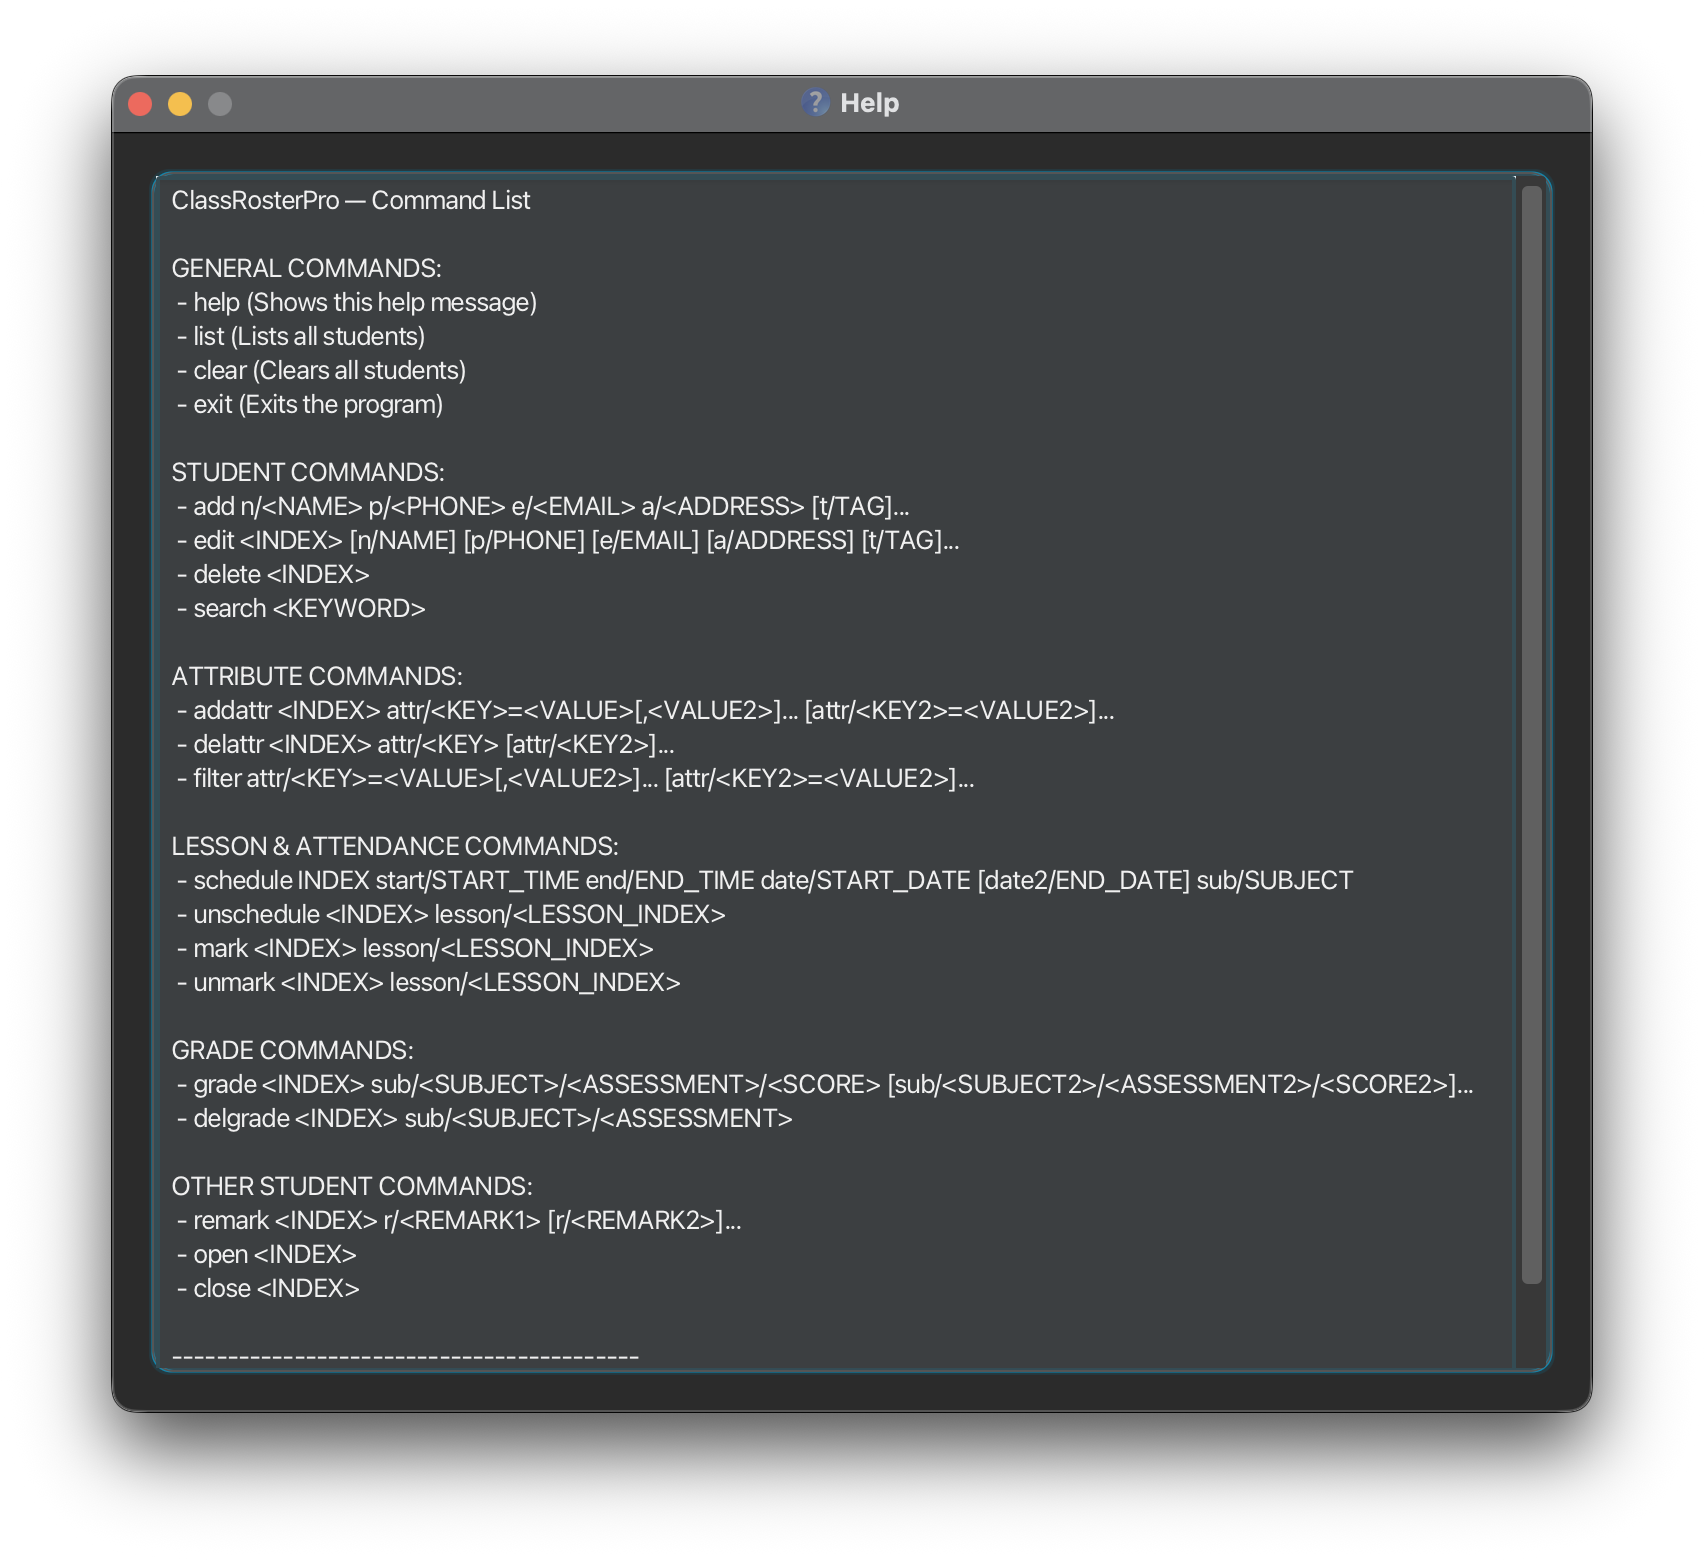
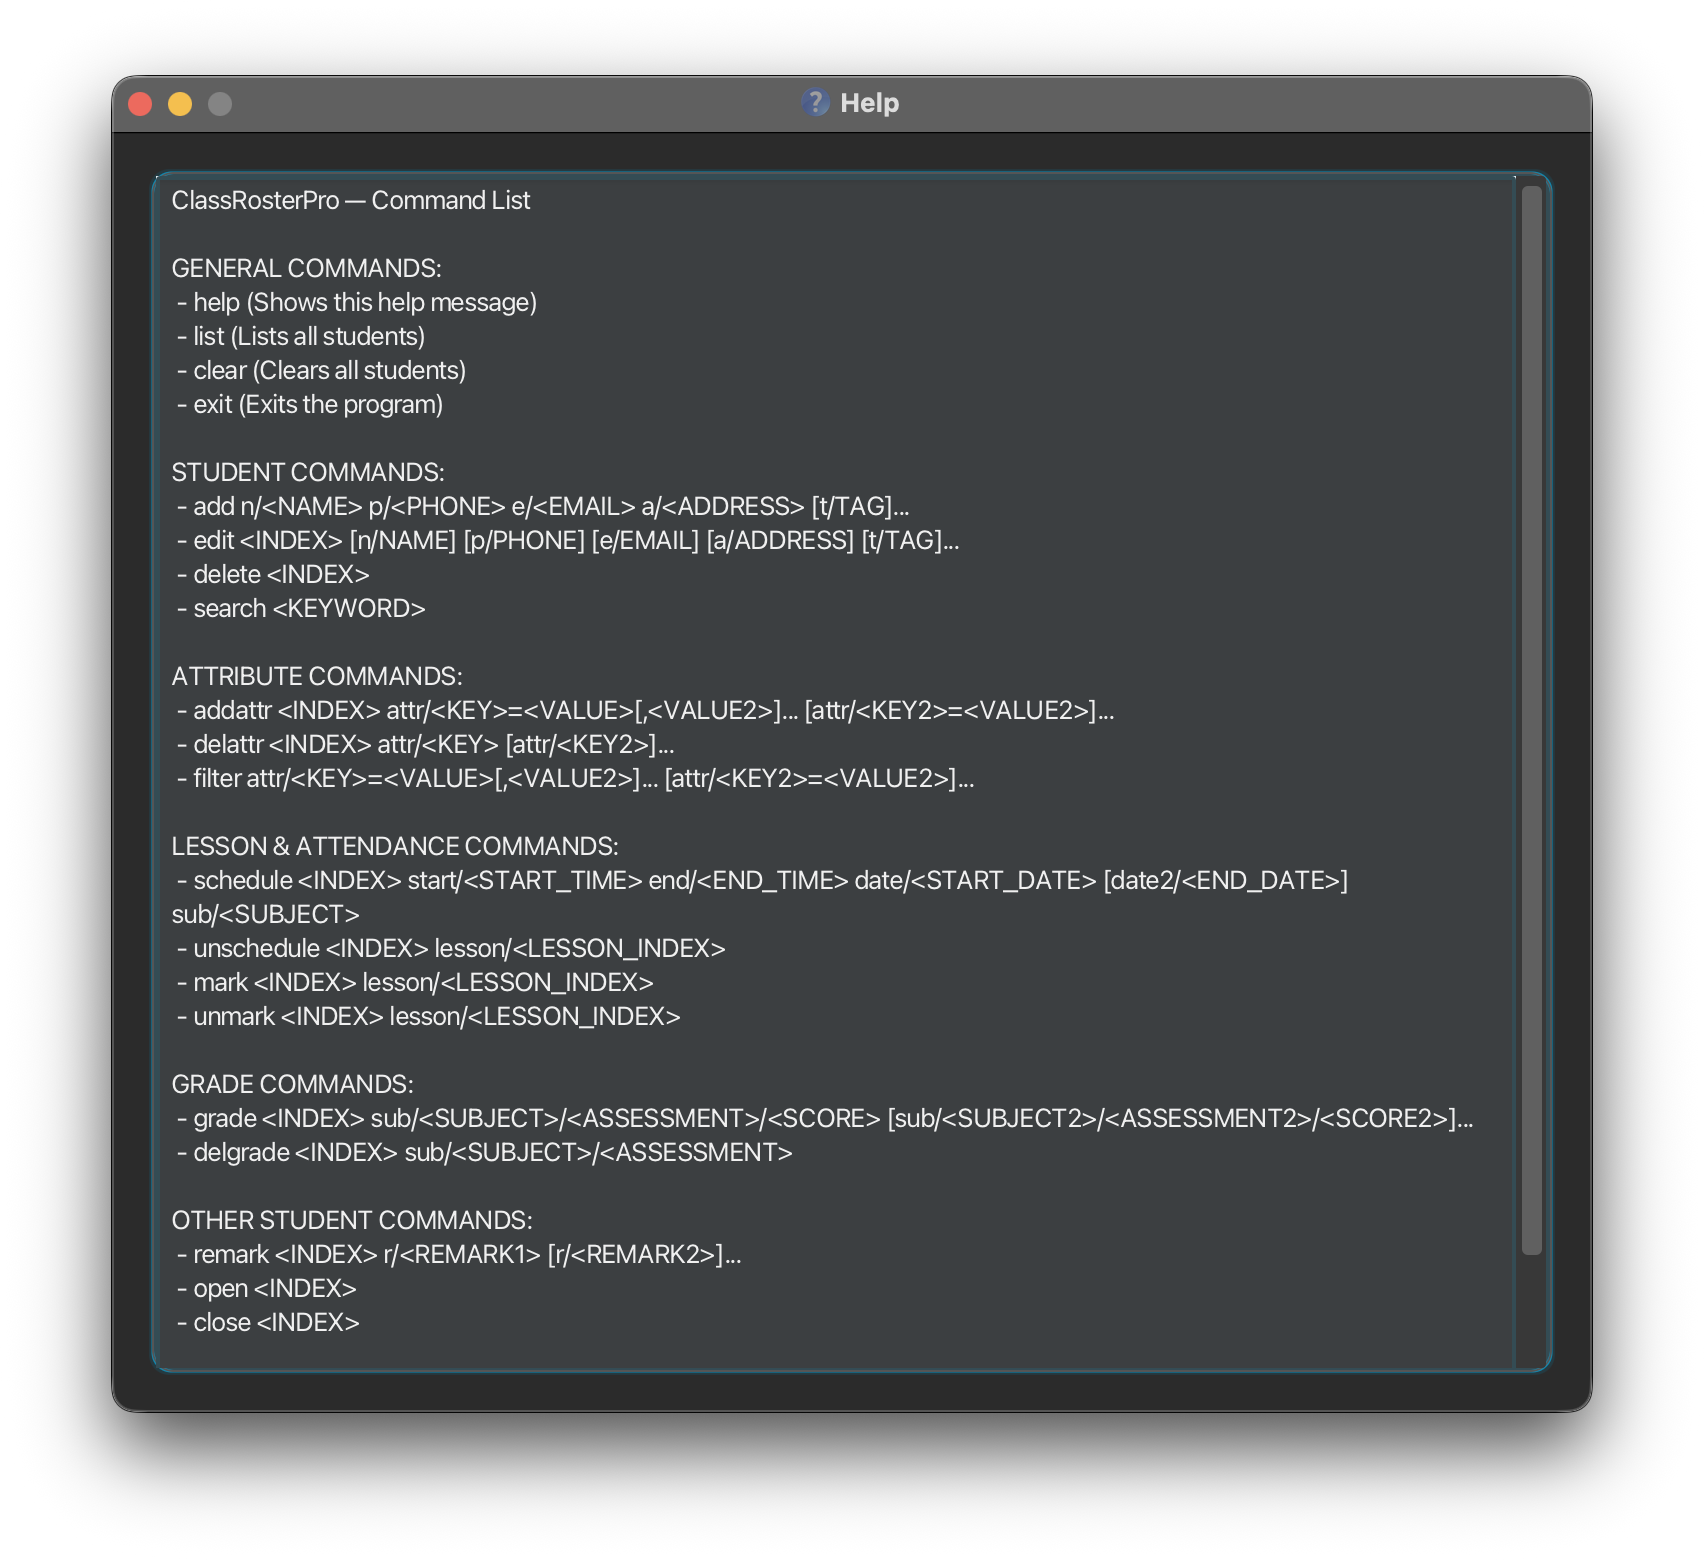
UI fix

Changed region(s): [[0.0933, 0.5538, 0.8398, 0.8615], [0.8709, 0.8, 0.902, 0.8308]]

diff --git a/src/main/java/seedu/address/logic/commands/HelpCommand.java b/src/main/java/seedu/address/logic/commands/HelpCommand.java
@@ -34,7 +34,7 @@ public class HelpCommand extends Command {
             " - filter attr/<KEY>=<VALUE>[,<VALUE2>]... [attr/<KEY2>=<VALUE2>]...",
             "",
             "LESSON & ATTENDANCE COMMANDS:",
-            " - schedule INDEX start/START_TIME end/END_TIME date/START_DATE [date2/END_DATE] sub/SUBJECT",
+            " - schedule <INDEX> start/<START_TIME> end/<END_TIME> date/<START_DATE> [date2/<END_DATE>] sub/<SUBJECT>",
             " - unschedule <INDEX> lesson/<LESSON_INDEX>",
             " - mark <INDEX> lesson/<LESSON_INDEX>",
             " - unmark <INDEX> lesson/<LESSON_INDEX>",
